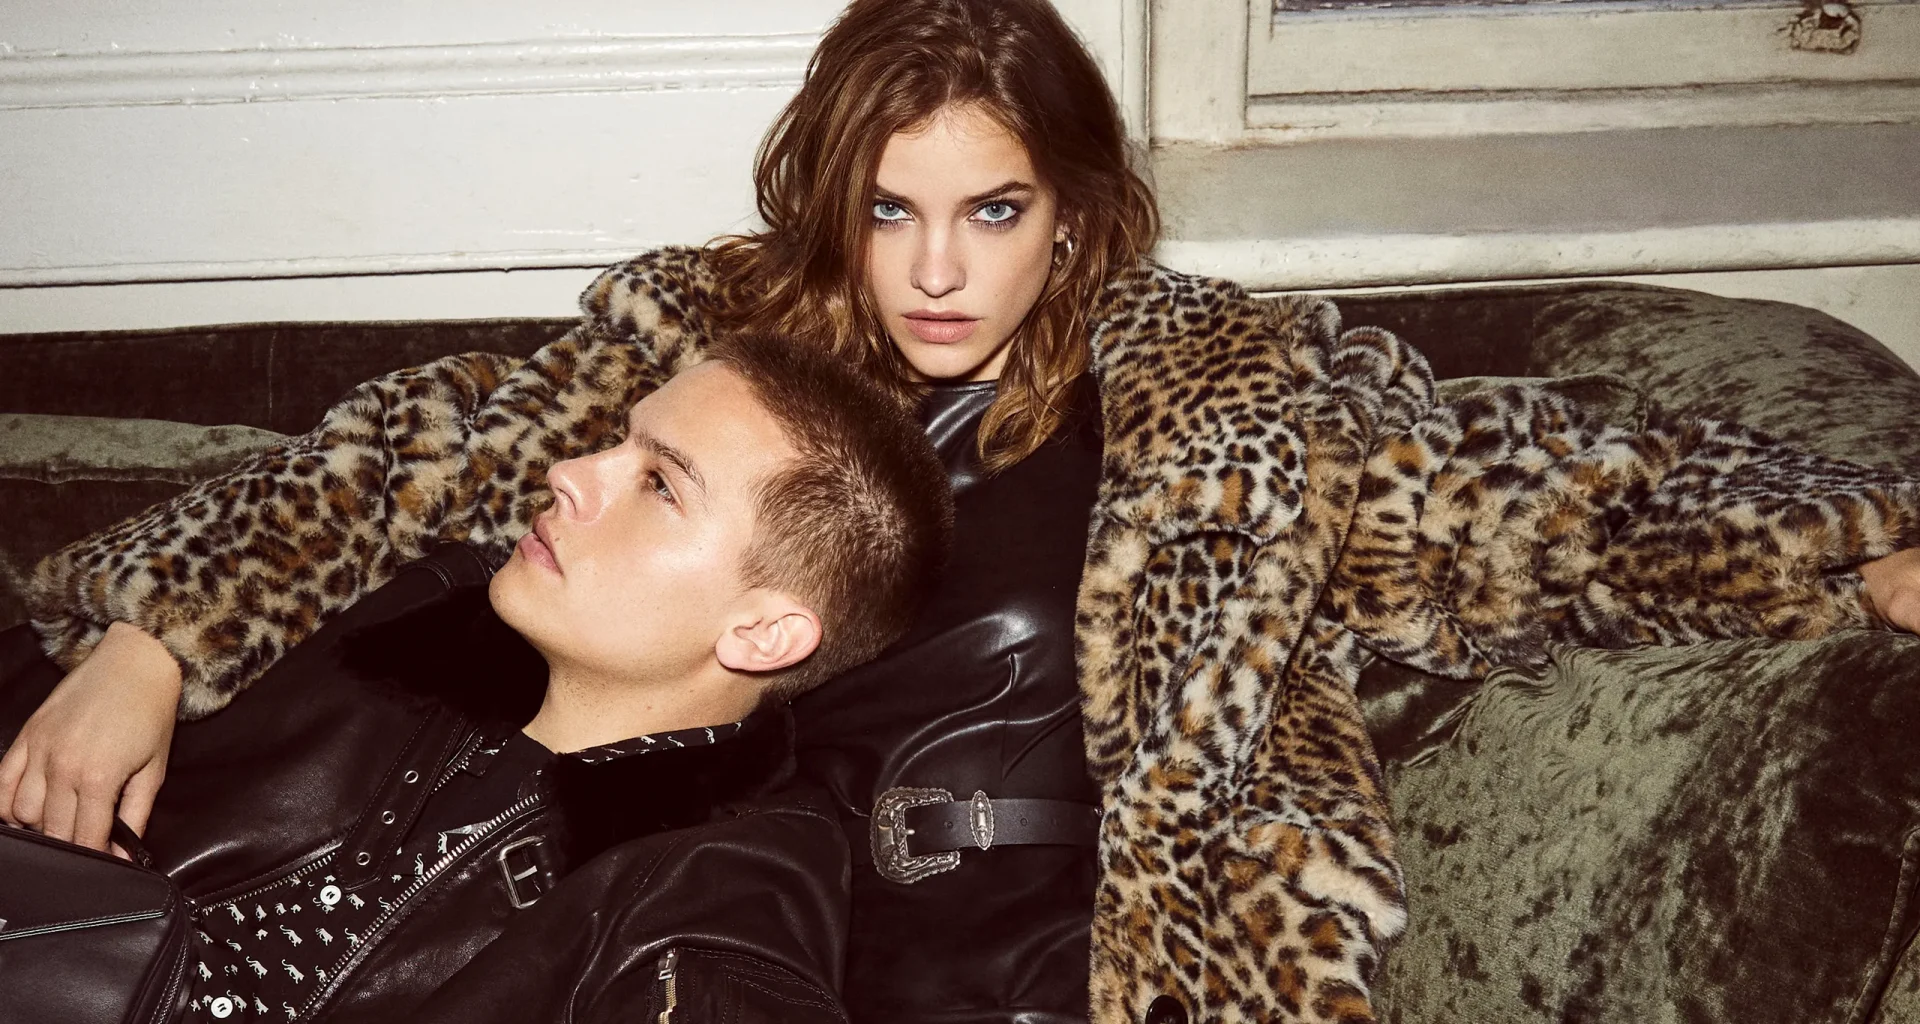
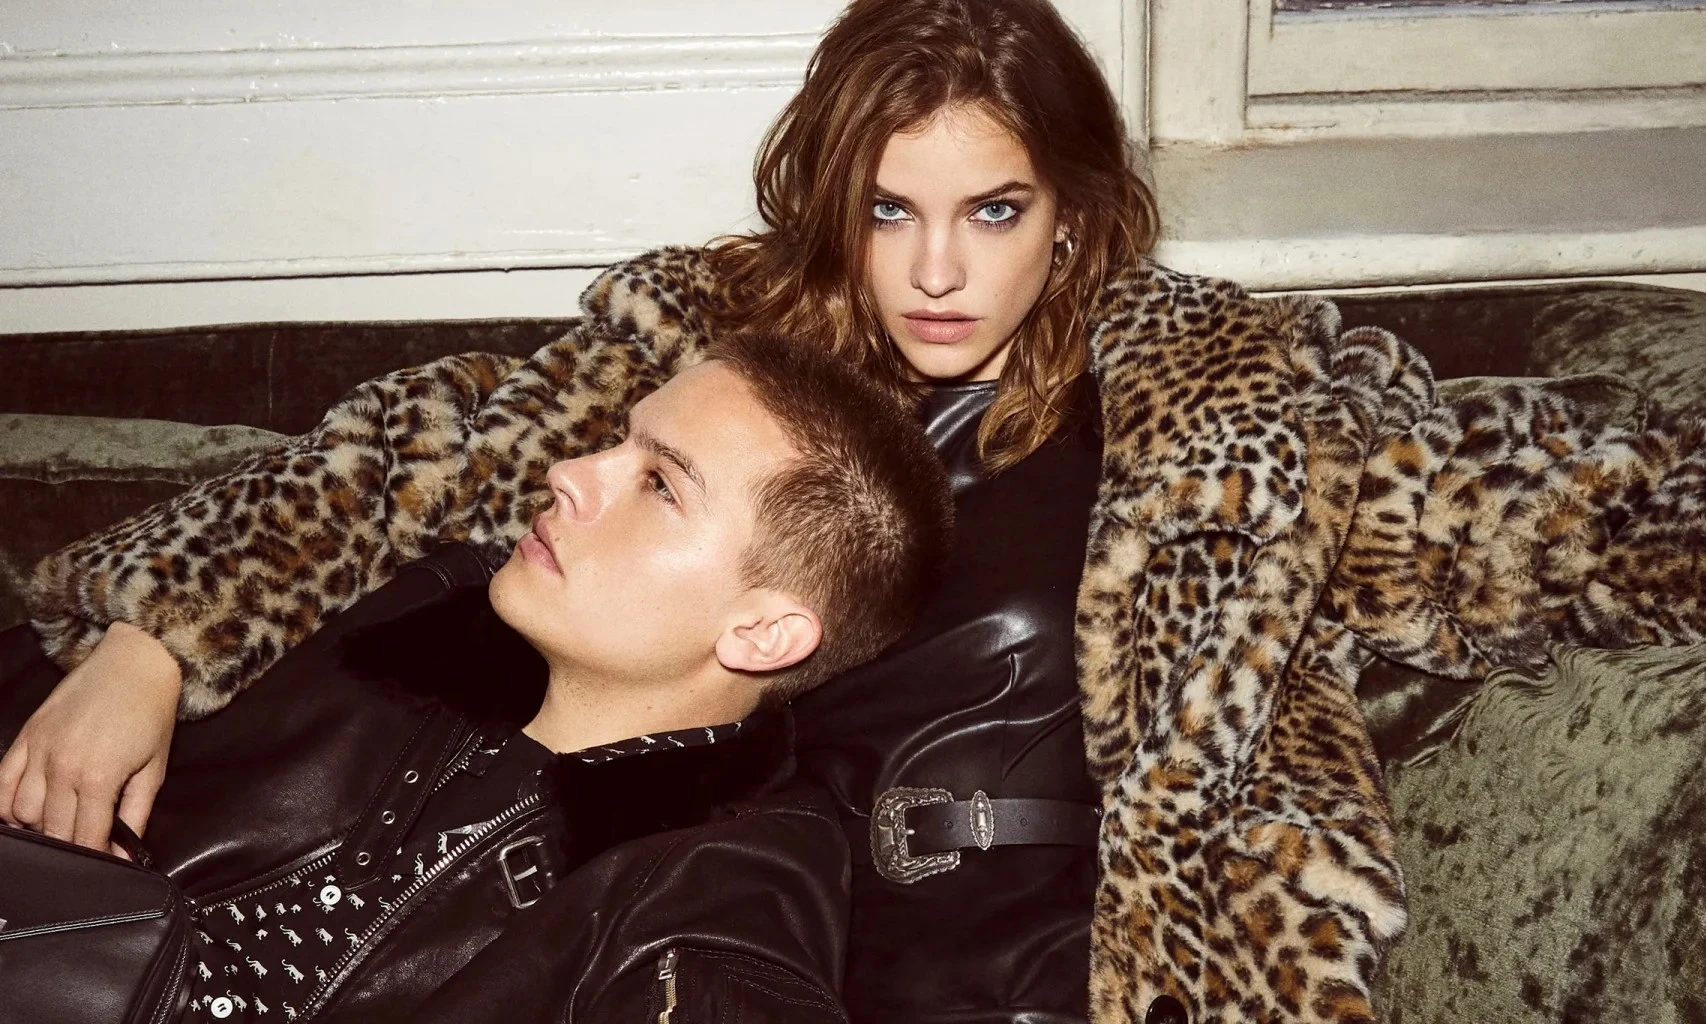
descripción

diff --git a/styles.css b/styles.css
@@ -523,9 +523,9 @@ p { line-height: 1.75; }
    ============================================================ */
 .hero {
   position: relative;
-  height: 88vh;
+  height: 92vh;
   min-height: 520px;
-  max-height: 900px;
+  max-height: 980px;
   overflow: hidden;
   background: var(--bg-dark);
 }
